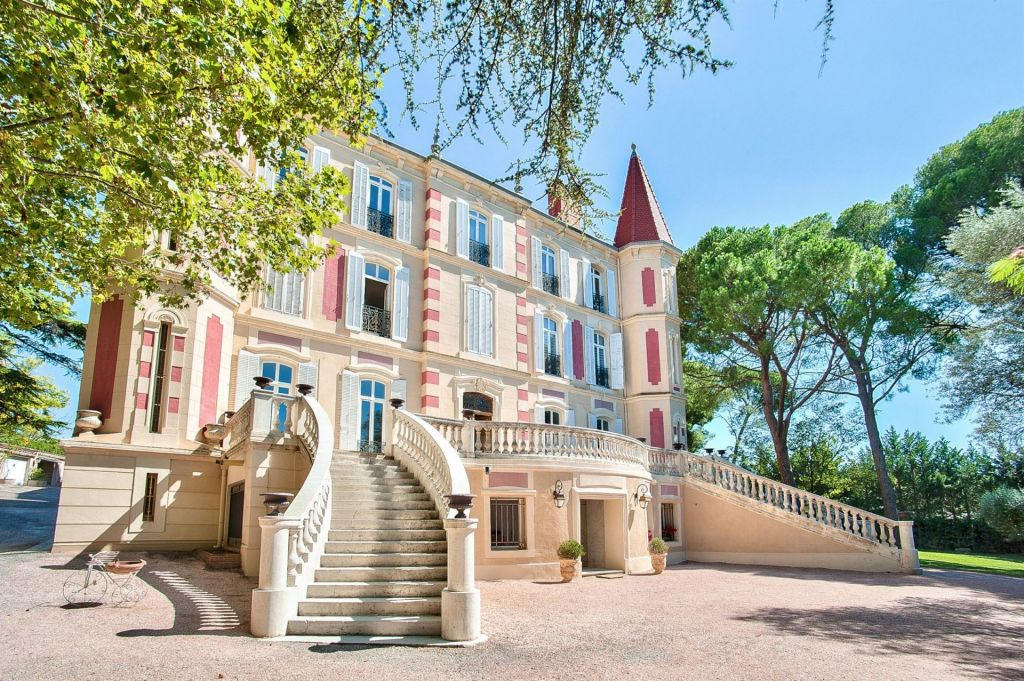
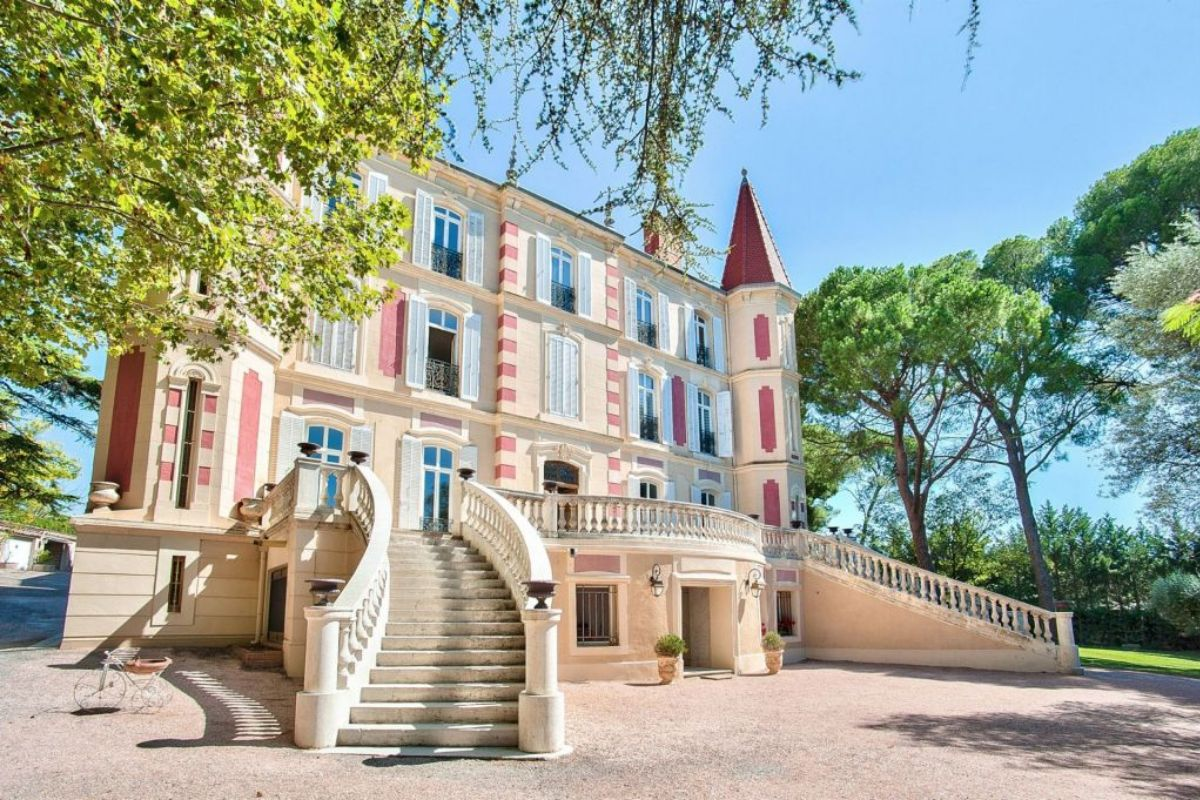
updated image size

diff --git a/src/app/museum-detail/museum-detail.component.html b/src/app/museum-detail/museum-detail.component.html
@@ -1,7 +1,8 @@
 <article class="card mb-3 shadow-sm">
   <div class="card-body">
+    <img src="{{museumImage}}" class="card-img-top mb-2" alt="...">
     <div class="card-title">
-      <h2 class="h4 mb-3">Musée Pablo Picasso</h2>
+      <h2 class="h4 mb-3">{{museumName}}</h2>
     </div>
 
     <div class="">
@@ -14,7 +15,7 @@
       </div>
       <div class="col-10">
         <p class="card-text">
-          Place Mariejol 06600 Antibes
+          {{museumAdress}} {{museumZipCode}} {{museumCity | titlecase}}
         </p>
       </div>
     </div>
@@ -24,7 +25,7 @@
         📞
       </div>
       <div class="col-10">
-        <p class="card-text"><a href="tel:0492905420">0492905420</a></p>
+        <p class="card-text"><a href="tel:{{museumPhone}}">{{museumPhone}}</a></p>
       </div>
     </div>
     <!-- Website -->
@@ -34,7 +35,7 @@
       </div>
       <div class="col-10">
         <p class="card-text">
-          <a href="www.antibes-juanlespins.com" target="blank">www.antibes-juanlespins.com</a>
+          <a href="www.antibes-juanlespins.com" target="blank">{{museumWebSite}}</a>
         </p>
       </div>
     </div>
@@ -44,13 +45,22 @@
         🕒
       </div>
       <div class="col-10">
-        <p class="card-text">Ouvert du 16 septembre au 14 juin de 10h à 12h et de 14h à 18h, du 15 juin au 15 septembre de 10h à 18h. Nocturnes en juillet et août le mercredi et le vendredi jusqu'à 20h</p>
+        <p class="card-text">{{museumOpening}}</p>
+      </div>
+    </div>
+    <!-- Museum fax -->
+    <div class="row mb-2">
+      <div class="col-1">
+        📠
+      </div>
+      <div class="col-10">
+        <p class="card-text">Fax : <a href="fax:{{museumFax}}">{{museumPhone}}</a></p>
       </div>
     </div>
     <!-- View detail -->
     <div class="row mb-2">
       <div class="col-1">
-        ➕
+        🔙
       </div>
       <div class="col-10">
         <p class="card-text"><a routerLink="">Retour en arrière</a></p>

diff --git a/src/app/museum-detail/museum-detail.component.ts b/src/app/museum-detail/museum-detail.component.ts
@@ -1,5 +1,7 @@
-import { Component, Input, OnInit } from '@angular/core';
+import { Component, OnInit } from '@angular/core';
+import { ActivatedRoute } from '@angular/router';
 import { MuseumListService } from '../services/museumList.service';
+
 
 @Component({
   selector: 'app-museum-detail',
@@ -8,19 +10,29 @@ import { MuseumListService } from '../services/museumList.service';
 })
 
 export class MuseumDetailComponent implements OnInit {
-  @Input() museumId : number;
-  @Input() museumName : string;
-  @Input() museumAdress : string;
-  @Input() museumZipCode : string;
-  @Input() museumCity : string;
-  @Input() museumPhone : string;
-  @Input() museumWebSite : string;
-  @Input() museumOpening : string;
-  @Input() museumImage;
+  museumRef: string;
+  museumName: string;
+  museumAdress: string;
+  museumOpening: string;
+  museumCity: string;
+  museumPhone: string;
+  museumZipCode: string;
+  museumWebSite: string;
+  museumFax: any;
+  museumImage;
 
-  constructor(private museumListService: MuseumListService) { }
+  constructor(private museumListService: MuseumListService, private route: ActivatedRoute) { }
 
   ngOnInit() {
+    const museumRef = this.route.snapshot.params['museumRef'];
+    this.museumName = this.museumListService.getMuseumByRef(museumRef).nom_du_musee;
+    this.museumAdress = this.museumListService.getMuseumByRef(museumRef).adr;
+    this.museumOpening = this.museumListService.getMuseumByRef(museumRef).periode_ouverture;
+    this.museumCity = this.museumListService.getMuseumByRef(museumRef).ville;
+    this.museumPhone = this.museumListService.getMuseumByRef(museumRef).telephone;
+    this.museumZipCode = this.museumListService.getMuseumByRef(museumRef).cp;
+    this.museumWebSite = this.museumListService.getMuseumByRef(museumRef).sitweb;
+    this.museumFax = this.museumListService.getMuseumByRef(museumRef).fax;
+    this.museumImage = this.museumListService.getMuseumByRef(museumRef).image;
   }
-
 }

diff --git a/src/app/app.module.ts b/src/app/app.module.ts
@@ -2,6 +2,9 @@ import { BrowserModule } from '@angular/platform-browser';
 import { NgModule } from '@angular/core';
 import { Routes, RouterModule } from '@angular/router';
 
+//Import of the leaflet library
+import { LeafletModule } from '@asymmetrik/ngx-leaflet';
+
 import { AppComponent } from './app.component';
 // Service contenant le JSON de tous les musées et les méthodes associées
 import { MuseumListService } from './services/museumList.service';
@@ -17,12 +20,12 @@ import { MuseumDetailComponent } from './museum-detail/museum-detail.component';
 import { SingleMuseumComponent } from './single-museum/single-museum.component';
 
 const appRoutes: Routes = [
-{ path: 'singleMuseum', component: SingleMuseumComponent },
-{ path: 'addMuseum', component: AddMuseumComponent },
-{ path: 'museum/:ref_musee', component: MuseumDetailComponent},
-{ path: '', component: MuseumListComponent},
-{ path: 'not-found', component: NotFoundComponent },
-{ path: '**', redirectTo: 'not-found' }
+  { path: 'singleMuseum', component: SingleMuseumComponent },
+  { path: 'addMuseum', component: AddMuseumComponent },
+  { path: 'museums/:museumRef', component: MuseumDetailComponent },
+  { path: '', component: MuseumListComponent },
+  { path: 'not-found', component: NotFoundComponent },
+  { path: '**', redirectTo: 'not-found' }
 ];
 
 @NgModule({
@@ -36,7 +39,7 @@ const appRoutes: Routes = [
   ],
   imports: [
     BrowserModule,
-    RouterModule.forRoot(appRoutes)
+    RouterModule.forRoot(appRoutes),
   ],
   providers: [MuseumListService],
   bootstrap: [AppComponent]

diff --git a/src/app/museum-list/museum-list.component.html b/src/app/museum-list/museum-list.component.html
@@ -7,17 +7,10 @@
 
   <div class="row">
 
-    <app-single-museum class="col-4"
-      *ngFor="let museum of museums"
-      [museumId]="museum.id"
-      [museumImage]="museum.image"
-      [museumName]="museum.nom_du_musee"
-      [museumAdress]="museum.adr"
-      [museumZipCode]="museum.cp"
-      [museumCity]="museum.ville"
-      [museumPhone]="museum.telephone"
-      [museumWebSite]="museum.sitweb"
-      [museumOpening]="museum.periode_ouverture">
-      </app-single-museum>
+    <app-single-museum class="col-4" *ngFor="let museum of museums" [museumRef]="museum.ref_musee"
+      [museumImage]="museum.image" [museumName]="museum.nom_du_musee" [museumAdress]="museum.adr"
+      [museumZipCode]="museum.cp" [museumCity]="museum.ville" [museumPhone]="museum.telephone"
+      [museumWebSite]="museum.sitweb" [museumOpening]="museum.periode_ouverture">
+    </app-single-museum>
   </div>
 </section>

diff --git a/src/app/single-museum/single-museum.component.ts b/src/app/single-museum/single-museum.component.ts
@@ -8,14 +8,14 @@ import { MuseumListService } from '../services/museumList.service';
 })
 
 export class SingleMuseumComponent implements OnInit {
-  @Input() museumId : number;
-  @Input() museumName : string;
-  @Input() museumAdress : string;
-  @Input() museumZipCode : string;
-  @Input() museumCity : string;
-  @Input() museumPhone : string;
-  @Input() museumWebSite : string;
-  @Input() museumOpening : string;
+  @Input() museumRef: string;
+  @Input() museumName: string;
+  @Input() museumAdress: string;
+  @Input() museumZipCode: string;
+  @Input() museumCity: string;
+  @Input() museumPhone: string;
+  @Input() museumWebSite: string;
+  @Input() museumOpening: string;
   @Input() museumImage;
 
   constructor(private museumListService: MuseumListService) { }

diff --git a/src/app/services/museumList.service.ts b/src/app/services/museumList.service.ts
@@ -238,10 +238,10 @@ export class MuseumListService {
       image: "./assets/images/image12.jpg"
     }]
 
-  getMuseumbyId(ref_musee: any) {
+  getMuseumByRef(museumRef: string) {
     const museum = this.museums.find(
       (s) => {
-        return s.ref_musee === ref_musee;
+        return s.ref_musee === museumRef;
       }
     );
     return museum;

diff --git a/src/app/single-museum/single-museum.component.html b/src/app/single-museum/single-museum.component.html
@@ -54,7 +54,7 @@
         ➕
       </div>
       <div class="col-10">
-        <p class="card-text"><a routerLink = "museum/:ref_musee">Détails</a></p>
+        <p class="card-text"><a [routerLink]="['museums/', museumRef]">Détails</a></p>
       </div>
     </div>
 

diff --git a/src/app/add-museum/add-museum.component.ts b/src/app/add-museum/add-museum.component.ts
@@ -11,5 +11,4 @@ export class AddMuseumComponent implements OnInit {
 
   ngOnInit() {
   }
-
 }
